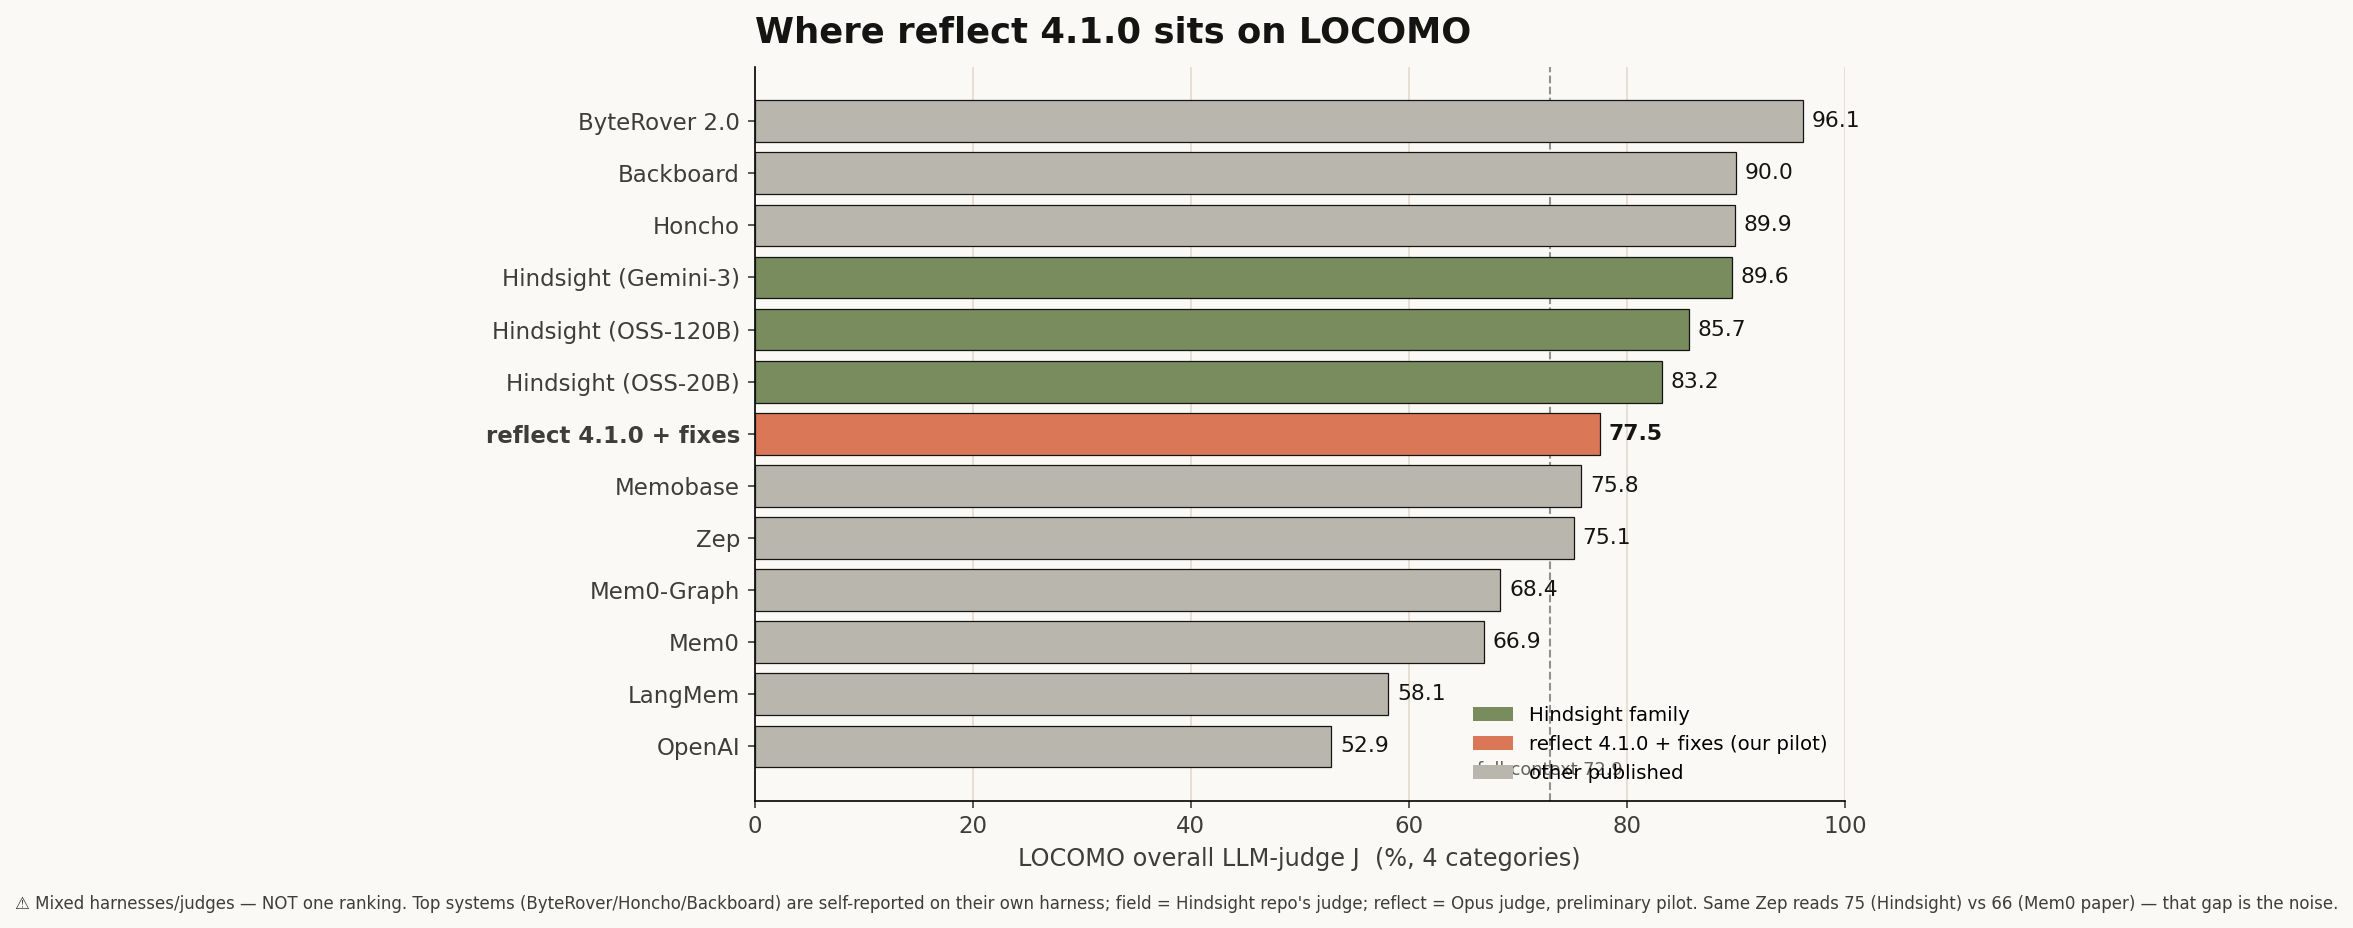
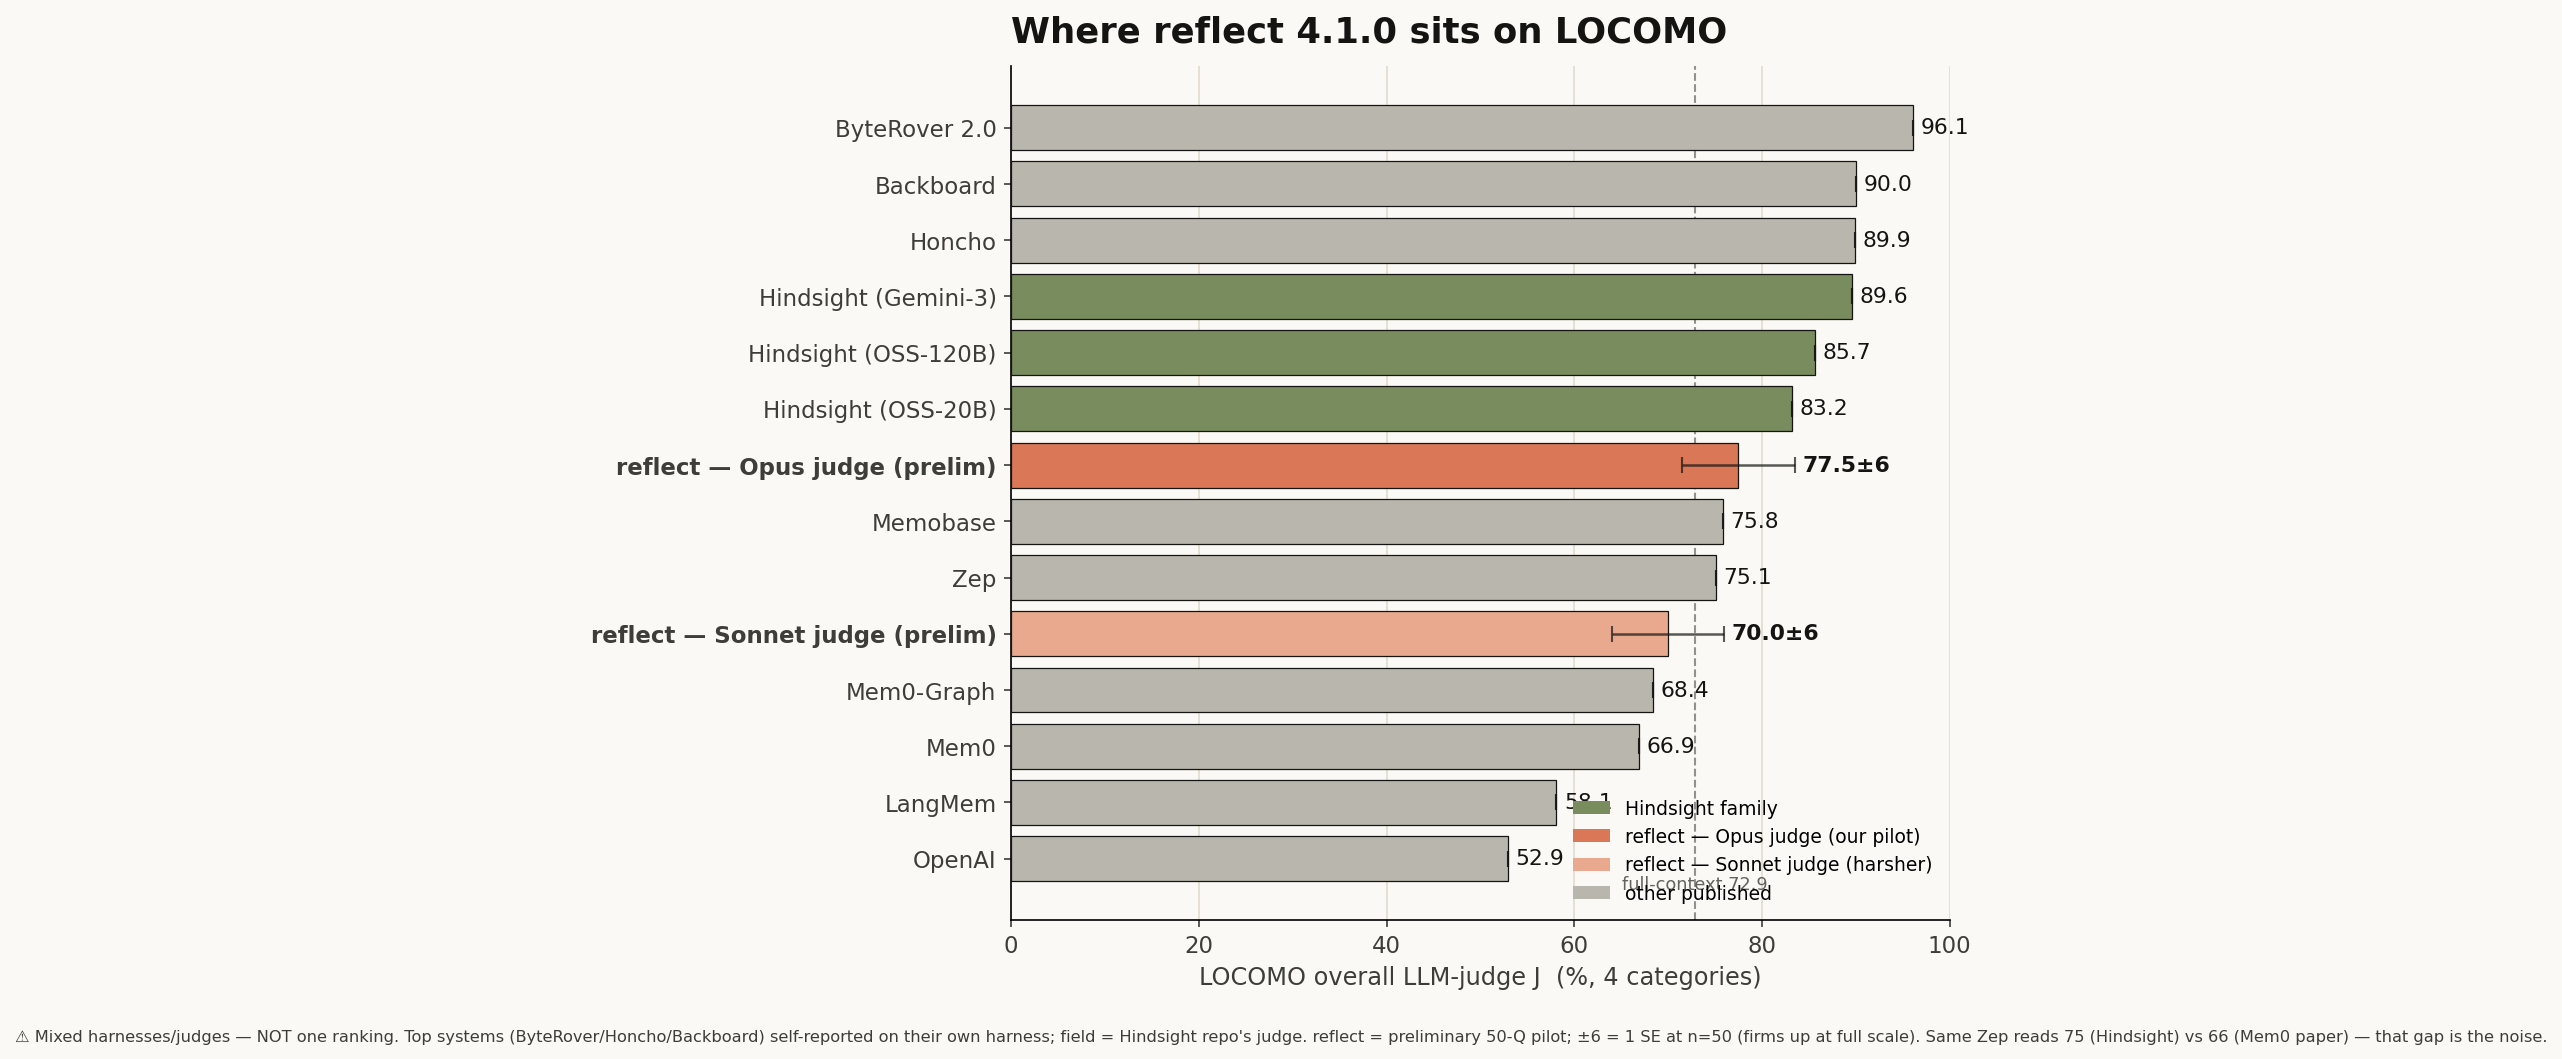
docs(reflect): embed both-judge LOCOMO positioning chart in READMEs
Switch the three READMEs to the positioning chart, which now shows reflect under
BOTH judges (Opus 77.5 / Sonnet 70.0) each with a ±6 band (1 standard error at
n=50 — the honest 'firms up when the test expands' amount), alongside the full
field including ByteRover and Honcho. Replaces the older single-judge 2-panel image.

Changed region(s): [[0.2172, 0.0938, 0.8066, 0.9375], [0.0, 0.9688, 0.9928, 1.0], [0.3102, 0.0, 0.6825, 0.0625]]

diff --git a/tests/eval/locomo/plot_positioning.py b/tests/eval/locomo/plot_positioning.py
@@ -4,38 +4,47 @@ matplotlib.use("Agg")
 import matplotlib.pyplot as plt
 from matplotlib.patches import Patch
 
-IVORY="#FAF9F5"; SLATE="#141413"; CLAY="#D97757"; OLIVE="#788C5D"
+IVORY="#FAF9F5"; SLATE="#141413"; CLAY="#D97757"; CLAY2="#E8A98F"; OLIVE="#788C5D"
 OAT="#E3DACC"; GRAY="#B9B7AD"; GRAY7="#3D3D3A"
 
+# reflect bars carry a ±6 band = 1 standard error at n=50 (the honest "firms up
+# when the test is expanded" amount); competitors are point values from their
+# own reports, so no band. Opus = reference judge; Sonnet judge grades harsher.
+ERR = 6.0
 data = [
-    ("ByteRover 2.0", 96.1, "other"),
-    ("Backboard", 90.0, "other"),
-    ("Honcho", 89.9, "other"),
-    ("Hindsight (Gemini-3)", 89.6, "hind"),
-    ("Hindsight (OSS-120B)", 85.7, "hind"),
-    ("Hindsight (OSS-20B)", 83.2, "hind"),
-    ("reflect 4.1.0 + fixes", 77.5, "reflect"),
-    ("Memobase", 75.8, "other"),
-    ("Zep", 75.1, "other"),
-    ("Mem0-Graph", 68.4, "other"),
-    ("Mem0", 66.9, "other"),
-    ("LangMem", 58.1, "other"),
-    ("OpenAI", 52.9, "other"),
+    ("ByteRover 2.0", 96.1, "other", 0),
+    ("Backboard", 90.0, "other", 0),
+    ("Honcho", 89.9, "other", 0),
+    ("Hindsight (Gemini-3)", 89.6, "hind", 0),
+    ("Hindsight (OSS-120B)", 85.7, "hind", 0),
+    ("Hindsight (OSS-20B)", 83.2, "hind", 0),
+    ("reflect — Opus judge (prelim)", 77.5, "reflect", ERR),
+    ("Memobase", 75.8, "other", 0),
+    ("Zep", 75.1, "other", 0),
+    ("reflect — Sonnet judge (prelim)", 70.0, "reflect2", ERR),
+    ("Mem0-Graph", 68.4, "other", 0),
+    ("Mem0", 66.9, "other", 0),
+    ("LangMem", 58.1, "other", 0),
+    ("OpenAI", 52.9, "other", 0),
 ]
 data.sort(key=lambda x: x[1])
-names=[d[0] for d in data]; vals=[d[1] for d in data]
-col={"hind":OLIVE,"reflect":CLAY,"other":GRAY}
+names=[d[0] for d in data]; vals=[d[1] for d in data]; errs=[d[3] for d in data]
+col={"hind":OLIVE,"reflect":CLAY,"reflect2":CLAY2,"other":GRAY}
 cols=[col[d[2]] for d in data]
 
-fig, ax = plt.subplots(figsize=(9.5, 6))
+fig, ax = plt.subplots(figsize=(9.5, 6.8))
 fig.patch.set_facecolor(IVORY); ax.set_facecolor(IVORY)
-bars=ax.barh(names, vals, color=cols, edgecolor=SLATE, linewidth=0.6, zorder=3)
+bars=ax.barh(names, vals, color=cols, edgecolor=SLATE, linewidth=0.6, zorder=3,
+             xerr=errs, error_kw=dict(ecolor=SLATE, elinewidth=1.2, capsize=4, alpha=0.7))
 for b,d in zip(bars,data):
-    ax.text(d[1]+0.8, b.get_y()+b.get_height()/2, f"{d[1]:.1f}", va="center",
-            fontsize=10.5, color=SLATE, fontweight="bold" if d[2]=="reflect" else "normal")
-# emphasise the reflect label
+    is_ref = d[2] in ("reflect","reflect2")
+    off = d[3] + 0.8  # clear the error bar
+    txt = f"{d[1]:.1f}±{int(d[3])}" if d[3] else f"{d[1]:.1f}"
+    ax.text(d[1]+off, b.get_y()+b.get_height()/2, txt, va="center",
+            fontsize=10.5, color=SLATE, fontweight="bold" if is_ref else "normal")
+# emphasise the reflect labels
 for lbl,d in zip(ax.get_yticklabels(), data):
-    if d[2]=="reflect": lbl.set_fontweight("bold"); lbl.set_color(CLAY)
+    if d[2] in ("reflect","reflect2"): lbl.set_fontweight("bold"); lbl.set_color(CLAY)
 
 ax.set_xlim(0,100)
 ax.set_xlabel("LOCOMO overall LLM-judge J  (%, 4 categories)", fontsize=11.5, color=GRAY7)
@@ -47,14 +56,15 @@ for s in ["top","right"]: ax.spines[s].set_visible(False)
 ax.tick_params(colors=GRAY7, labelsize=11)
 ax.grid(axis="x", color=OAT, lw=0.8, zorder=0)
 ax.legend(handles=[Patch(facecolor=OLIVE,label="Hindsight family"),
-                   Patch(facecolor=CLAY,label="reflect 4.1.0 + fixes (our pilot)"),
+                   Patch(facecolor=CLAY,label="reflect — Opus judge (our pilot)"),
+                   Patch(facecolor=CLAY2,label="reflect — Sonnet judge (harsher)"),
                    Patch(facecolor=GRAY,label="other published")],
-          loc="lower right", fontsize=9.5, frameon=False)
-fig.text(0.5, -0.02,
-    "⚠ Mixed harnesses/judges — NOT one ranking. Top systems (ByteRover/Honcho/Backboard) are "
-    "self-reported on their own harness; field = Hindsight repo's judge; reflect = Opus judge, "
-    "preliminary pilot. Same Zep reads 75 (Hindsight) vs 66 (Mem0 paper) — that gap is the noise.",
-    ha="center", fontsize=8.0, color=GRAY7)
+          loc="lower right", fontsize=9, frameon=False)
+fig.text(0.5, -0.03,
+    "⚠ Mixed harnesses/judges — NOT one ranking. Top systems (ByteRover/Honcho/Backboard) self-reported "
+    "on their own harness; field = Hindsight repo's judge. reflect = preliminary 50-Q pilot; ±6 = 1 SE at "
+    "n=50 (firms up at full scale). Same Zep reads 75 (Hindsight) vs 66 (Mem0 paper) — that gap is the noise.",
+    ha="center", fontsize=7.8, color=GRAY7)
 plt.tight_layout()
 fig.savefig("results/locomo_positioning.png", dpi=150, facecolor=IVORY, bbox_inches="tight")
 print("wrote results/locomo_positioning.png")

diff --git a/README.md b/README.md
@@ -43,7 +43,7 @@ The **+fixes** config adds two additive, env-gated, **zero-new-API-key** knobs: 
 (`REFLECT_EMBED_MODEL=BAAI/bge-base-en-v1.5`, local) and **HyDE** query-expansion (`REFLECT_RECALL_HYDE=1`,
 reusing reflect's own `claude -p`). Both default off — shipped behavior is unchanged.
 
-![LOCOMO leaderboard](./tests/eval/locomo/results/locomo_comparison.png)
+![LOCOMO leaderboard](./tests/eval/locomo/results/locomo_positioning.png)
 
 reflect's tuned 4-category mean (**77.5**) lands mid-field — on par with **Memobase / Zep**, above
 **Mem0** — while the newest systems (**ByteRover ~96, Honcho ~90, Hindsight ~90**) sit higher but are

diff --git a/plugin/README.md b/plugin/README.md
@@ -19,7 +19,7 @@ The **+fixes** config adds two additive, env-gated, **zero-new-API-key** knobs: 
 
 ### vs other memory systems
 
-![LOCOMO leaderboard — reflect vs Mem0 / Zep / Hindsight](../../reflect-kb/tests/eval/locomo/results/locomo_comparison.png)
+![LOCOMO leaderboard — reflect vs ByteRover / Honcho / Hindsight / Mem0 / Zep](../../reflect-kb/tests/eval/locomo/results/locomo_positioning.png)
 
 reflect's tuned 4-category mean (**77.5**) lands mid-field — on par with **Memobase / Zep**, above **Mem0** — while the newest systems (**ByteRover ~96, Honcho ~90, Hindsight ~90**) sit higher but are self-reported on their own harnesses. Judges/harnesses differ across the field (the same Zep reads 75 on one harness, 66 on another — that gap *is* the cross-harness noise), so this is **directional placement, not a strict ranking**. Full methodology, per-fix ablation, and the judge calibration: [`reflect-kb/tests/eval/locomo/REPORT.md`](../../reflect-kb/tests/eval/locomo/REPORT.md).
 

diff --git a/tests/eval/locomo/README.md b/tests/eval/locomo/README.md
@@ -24,7 +24,7 @@ The **+fixes** knobs are additive, env-gated, and need **no new API key**:
 (HyDE, reusing reflect's `claude -p`). The R7 OOD gate (`REFLECT_RECALL_MIN_OVERLAP`)
 over-suppressed at 0.15 and was dropped.
 
-![LOCOMO leaderboard](./results/locomo_comparison.png)
+![LOCOMO leaderboard](./results/locomo_positioning.png)
 
 ## Pipeline
 